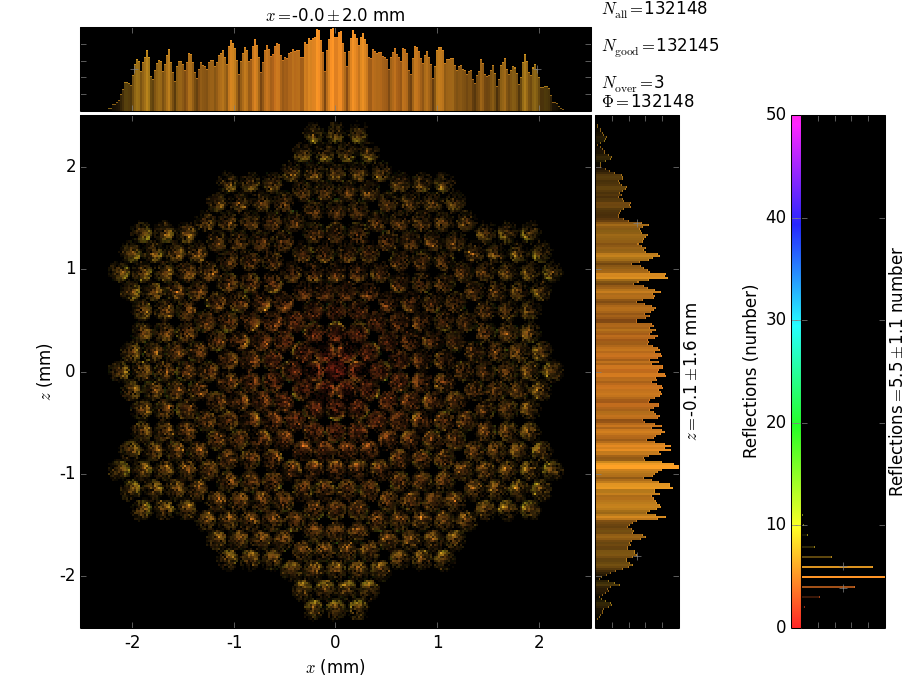
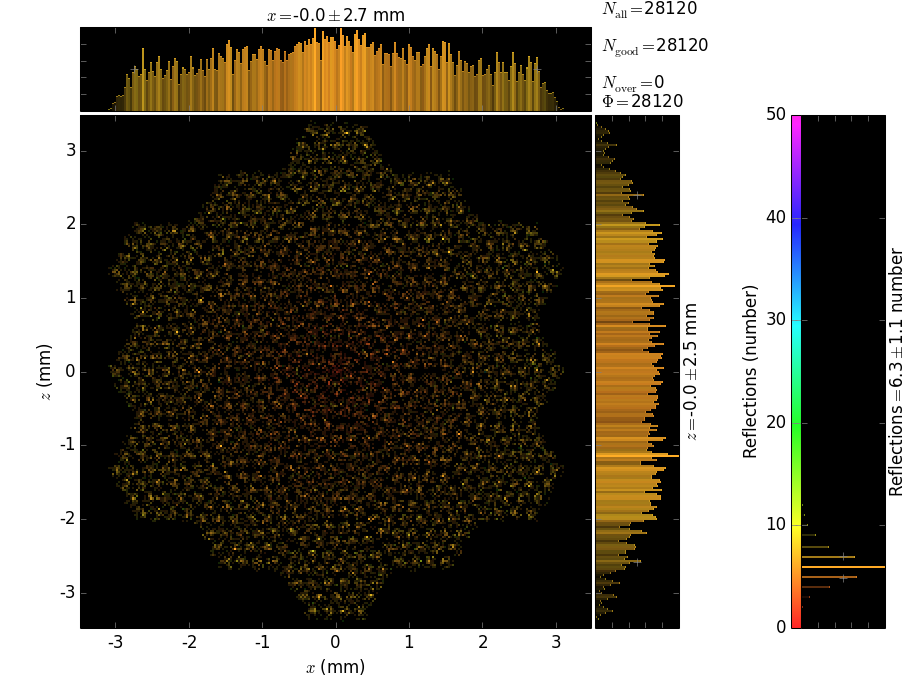
Longer run preparations

diff --git a/main.py b/main.py
@@ -28,8 +28,8 @@ def create_lens():
     lens = lp.PolyCapillaryLens(y_settings=y_settings,\
                                 D_settings=D_settings)
     structure = st.HexStructure(rIn = 0.2,\
-                                nx_capillary = 3,\
-                                ny_bundle = 3)
+                                nx_capillary = 7,\
+                                ny_bundle = 5)
     lens.set_structure(structure)
 
     return lens
@@ -50,7 +50,7 @@ if __name__ == '__main__':
     setup = eb.MultipleCapillariesFittedSource()
     setup.set_capillaries(caps)
     # Number of photons per run per capillary
-    setup.set_nrays(50)
+    setup.set_nrays(10)
     # Number of runs
     setup.set_repeats(4)
 
@@ -69,6 +69,9 @@ if __name__ == '__main__':
     # ub.show_beam(ceam)
     bp = up.BeamPlotter(ceam)
     # bp.set_limits([-4,4])
+    bp.set_save_name('png/example_140.png')
     bp.show(140)
-    bp.show(141)
+    bp.set_save_name('png/example_155.png')
     bp.show(155)
+    bp.set_save_name('png/example_170.png')
+    bp.show(170)

diff --git a/examples/basic.py b/examples/basic.py
@@ -225,7 +225,7 @@ class MultipleCapillariesFittedSource(object):
 
     @staticmethod
     def local_process(beamLine, shineOnly1stSource=False):
-        """ another shot """
+        """ raycing.run_process must be overriden globally """
         # Iterate over the capillaries
         # and shine() into each of them
         process_id = mp.current_process()._identity[0]
@@ -266,10 +266,6 @@ class MultipleCapillariesFittedSource(object):
                             beamLine=self.beamLine,\
                             processes=_processes,\
                             threads=_threads)
-
-    def say_hello(self):
-        """ """
-        print 'hello'
 
     def get_source(self):
         """ it's free """
